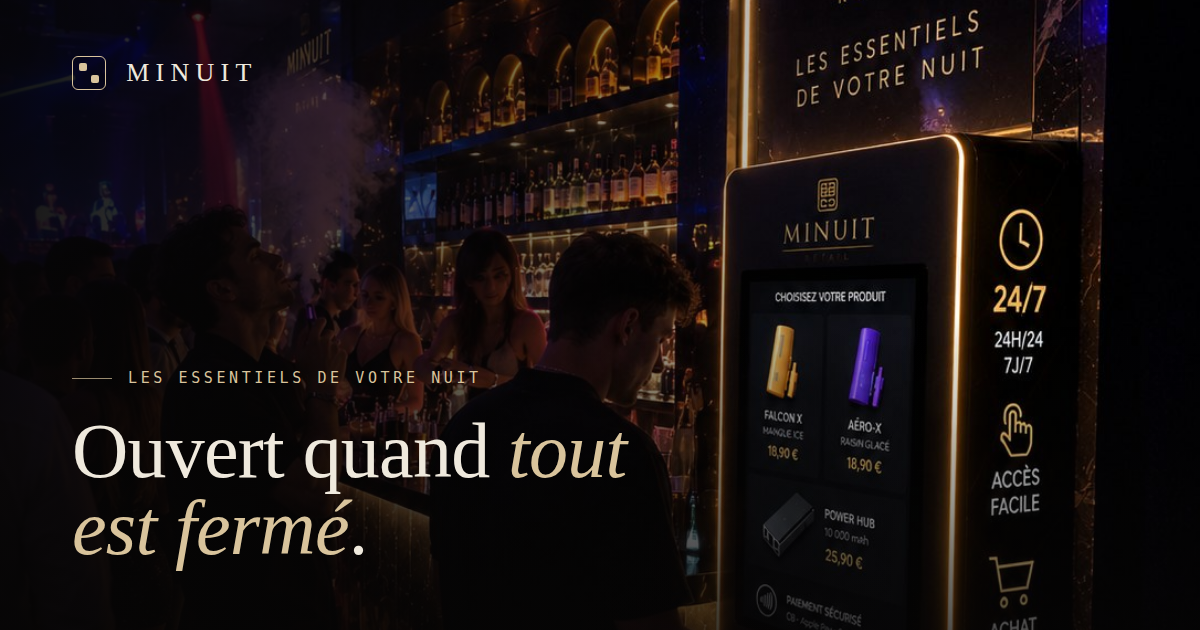
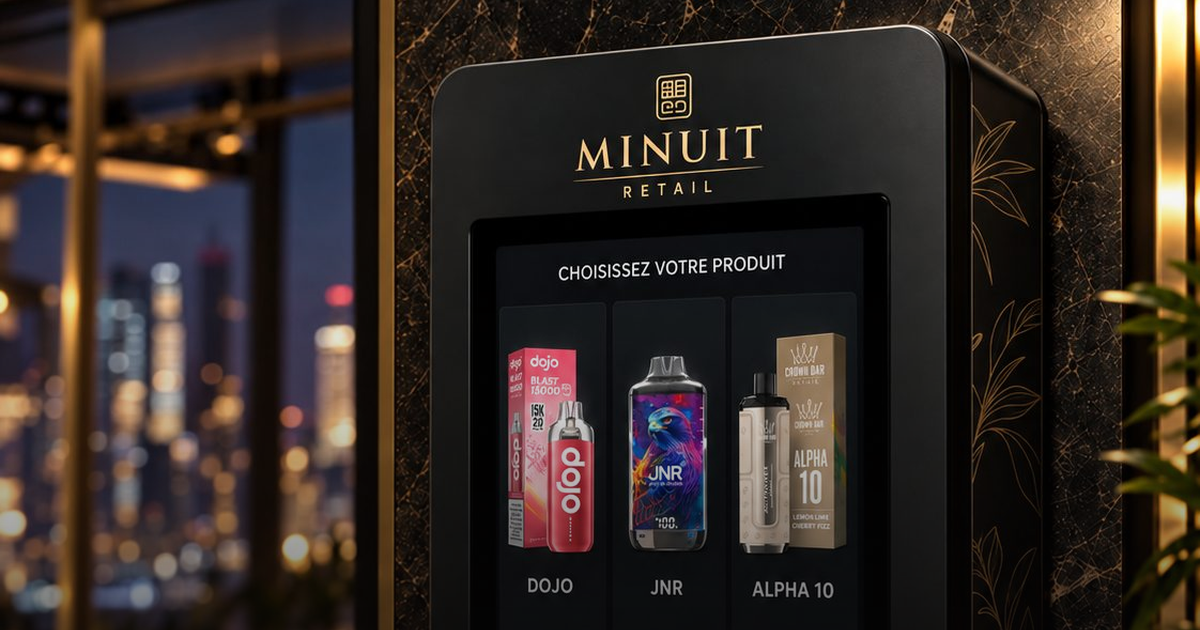
Intègre les nouvelles images produit (vraie machine) — hero, section machine, break, OG
- Hero : la machine dans un lounge de nuit premium (skyline, marbre + or) —
  fini le montage IA à badges ; étalonnage allégé, scrim renforcé (desktop + mobile)
- Section machine : plan studio propre présenté comme une planche produit encadrée
- Break : terrasse Côte d'Azur au coucher de soleil (identité "du Cap d'Agde à
  Monaco"), scrim gauche renforcé pour la lisibilité du titre
- Image OG régénérée depuis la nouvelle machine (branding cohérent au partage)
- Images optimisées pour le web (PNG 2-3 Mo → JPG 150-230 Ko)
- Anciennes images IA supprimées, sitemap et lastmod mis à jour

Claude-Session: https://claude.ai/code/session_01AdZ26dFqmAyvpeNijno6DE

diff --git a/css/styles.css b/css/styles.css
@@ -163,12 +163,12 @@ ul, ol { margin: 0; padding: 0; list-style: none; }
    ============================================================ */
 .hero { position: relative; min-height: 100svh; display: flex; align-items: flex-end; overflow: hidden; }
 .hero-media { position: absolute; inset: 0; z-index: 0; }
-.hero-media img { width: 100%; height: 100%; object-fit: cover; object-position: 62% center; filter: grayscale(0.22) sepia(0.1) saturate(0.82) contrast(1.05) brightness(0.85); }
+.hero-media img { width: 100%; height: 100%; object-fit: cover; object-position: 70% center; filter: saturate(0.96) contrast(1.04) brightness(0.88); }
 /* Grain sur l'image → matité « argentique » qui gomme l'aspect stock/IA */
 .hero-media::before { content: ""; position: absolute; inset: 0; z-index: 1; pointer-events: none; background-image: var(--grain); background-size: 130px 130px; opacity: 0.12; mix-blend-mode: overlay; }
 .hero-media::after { content: ""; position: absolute; inset: 0; background:
-  linear-gradient(180deg, rgba(6,5,5,0.6) 0%, rgba(6,5,5,0.05) 26%, rgba(6,5,5,0.12) 52%, rgba(6,5,5,0.95) 100%),
-  linear-gradient(75deg, rgba(6,5,5,0.9) 0%, rgba(6,5,5,0.4) 40%, transparent 70%),
+  linear-gradient(180deg, rgba(6,5,5,0.62) 0%, rgba(6,5,5,0.1) 22%, rgba(6,5,5,0.52) 48%, rgba(6,5,5,0.9) 72%, rgba(6,5,5,0.98) 100%),
+  linear-gradient(75deg, rgba(6,5,5,0.92) 0%, rgba(6,5,5,0.45) 42%, transparent 72%),
   linear-gradient(270deg, rgba(6,5,5,0.7) 0%, rgba(6,5,5,0.12) 20%, transparent 40%); }
 .hero-inner { position: relative; z-index: 1; width: 100%; padding-bottom: 8vh; padding-top: 120px; }
 .hero-kicker { margin-bottom: 28px; }
@@ -260,9 +260,10 @@ ul, ol { margin: 0; padding: 0; list-style: none; }
 /* Le distributeur présenté comme un objet : cadré, centré, entouré d'air,
    posé sur un halo « socle ». L'image est recadrée pour écarter le bandeau
    de badges du bas (qui trahissait l'IA et doublonnait le contenu du site). */
-.product-figure { position: relative; max-width: 860px; margin: 0 auto; padding: 20px 0 10px; }
-.product-figure::before { content: ""; position: absolute; left: 50%; top: 46%; transform: translate(-50%,-50%); width: 84%; height: 74%; background: radial-gradient(ellipse at center, var(--gold-soft), transparent 68%); filter: blur(22px); z-index: 0; pointer-events: none; }
-.product-figure img { position: relative; z-index: 1; width: 100%; height: auto; filter: grayscale(0.16) saturate(0.88) contrast(1.05) brightness(0.92); }
+.product-figure { position: relative; max-width: 720px; margin: 0 auto; padding: 10px 0; }
+/* Plan studio sur fond clair : présenté comme une planche produit encadrée,
+   pas assombri. Léger cadre champagne + coins arrondis pour l'ancrer sur le noir. */
+.product-figure img { position: relative; z-index: 1; width: 100%; height: auto; border-radius: 4px; border: 1px solid var(--line-2); filter: saturate(1.02) contrast(1.02); }
 .product-figure .cap { margin-top: 30px; display: grid; grid-template-columns: auto 1fr; gap: 24px; align-items: baseline; border-top: 1px solid var(--line); padding-top: 18px; }
 .product-figure .cap span { font-family: var(--ff-mono); font-size: 10.5px; letter-spacing: 0.14em; text-transform: uppercase; color: var(--gold); }
 .product-figure .cap p { color: var(--text-dim); font-size: 0.9rem; max-width: 60ch; }
@@ -279,9 +280,9 @@ ul, ol { margin: 0; padding: 0; list-style: none; }
    IMAGE BREAK — pleine largeur, une ligne
    ============================================================ */
 .break { position: relative; height: 56vh; min-height: 400px; max-height: 620px; display: flex; align-items: center; overflow: hidden; }
-.break img { position: absolute; inset: 0; width: 100%; height: 100%; object-fit: cover; object-position: 32% 42%; filter: saturate(0.94) contrast(1.03) brightness(0.97); }
+.break img { position: absolute; inset: 0; width: 100%; height: 100%; object-fit: cover; object-position: 62% 45%; filter: saturate(0.98) contrast(1.03) brightness(0.9); }
 .break::before { content: ""; position: absolute; inset: 0; z-index: 1; pointer-events: none; background-image: var(--grain); background-size: 130px 130px; opacity: 0.12; mix-blend-mode: overlay; }
-.break::after { content: ""; position: absolute; inset: 0; background: linear-gradient(90deg, rgba(6,5,5,0.86), rgba(6,5,5,0.3) 60%, rgba(6,5,5,0.55)); }
+.break::after { content: ""; position: absolute; inset: 0; background: linear-gradient(90deg, rgba(6,5,5,0.97) 0%, rgba(6,5,5,0.95) 34%, rgba(6,5,5,0.45) 60%, rgba(6,5,5,0.2) 80%, rgba(6,5,5,0.4)); }
 .break-copy { position: relative; z-index: 1; }
 .break-copy .kicker { margin-bottom: 24px; }
 .break-copy .serif { font-family: var(--serif); font-weight: 300; font-size: clamp(2rem, 5vw, 4rem); line-height: 1.05; max-width: 16ch; }

diff --git a/index.html b/index.html
@@ -38,7 +38,7 @@
   <link rel="manifest" href="site.webmanifest" />
   <link rel="preconnect" href="https://fonts.googleapis.com" />
   <link rel="preconnect" href="https://fonts.gstatic.com" crossorigin />
-  <link rel="preload" as="image" href="assets/club.jpg" />
+  <link rel="preload" as="image" href="assets/hero-lounge.jpg" />
   <link href="https://fonts.googleapis.com/css2?family=Cormorant+Garamond:ital,wght@0,300;0,400;0,500;0,600;1,400;1,500&family=Instrument+Sans:wght@400;500;600&family=Martian+Mono:wght@300;400;500&display=swap" rel="stylesheet" />
   <link rel="stylesheet" href="css/styles.css" />
 
@@ -259,7 +259,7 @@
     <!-- ============ HERO ============ -->
     <section class="hero">
       <div class="hero-media">
-        <img src="assets/club.jpg" width="1086" height="1448" alt="Distributeur Minuit Retail intégré au bar d'un établissement de nuit premium." fetchpriority="high" />
+        <img src="assets/hero-lounge.jpg" width="1122" height="1402" alt="Distributeur Minuit Retail installé dans un lounge de nuit premium, vue sur la ville." fetchpriority="high" />
       </div>
       <div class="wrap hero-inner">
         <p class="kicker hero-kicker">Les essentiels de votre nuit</p>
@@ -325,7 +325,7 @@
         </div>
 
         <figure class="product-figure reveal-img">
-          <img src="assets/machine-exploded.jpg" width="1200" height="1346" alt="Vue éclatée du distributeur Minuit Retail : mécanique de distribution, module écran, lecteurs et façade." loading="lazy" />
+          <img src="assets/machine-studio.jpg" width="1122" height="1402" alt="Distributeur Minuit Retail : façade tactile, sélection de pods rechargeables, paiement sans contact et habillage personnalisable." loading="lazy" />
           <figcaption class="cap">
             <span>Conception</span>
             <p>Mécanique de distribution à spirales avec capteur de chute, monétique sans contact, lecteur de document et carte de gestion connectée, assemblés et maintenus par nos équipes.</p>
@@ -359,7 +359,7 @@
 
     <!-- ============ IMAGE BREAK ============ -->
     <section class="break" aria-hidden="false">
-      <img src="assets/club.jpg" width="1086" height="1448" alt="Ambiance nocturne d'un établissement partenaire Minuit Retail." loading="lazy" />
+      <img src="assets/terrace.jpg" width="1122" height="1402" alt="Distributeur Minuit Retail sur une terrasse de la Côte d'Azur au coucher de soleil." loading="lazy" />
       <div class="wrap break-copy">
         <p class="kicker">Disponibilité continue</p>
         <p class="serif">Le service <em>ne s'arrête pas</em> avec le bar.</p>
